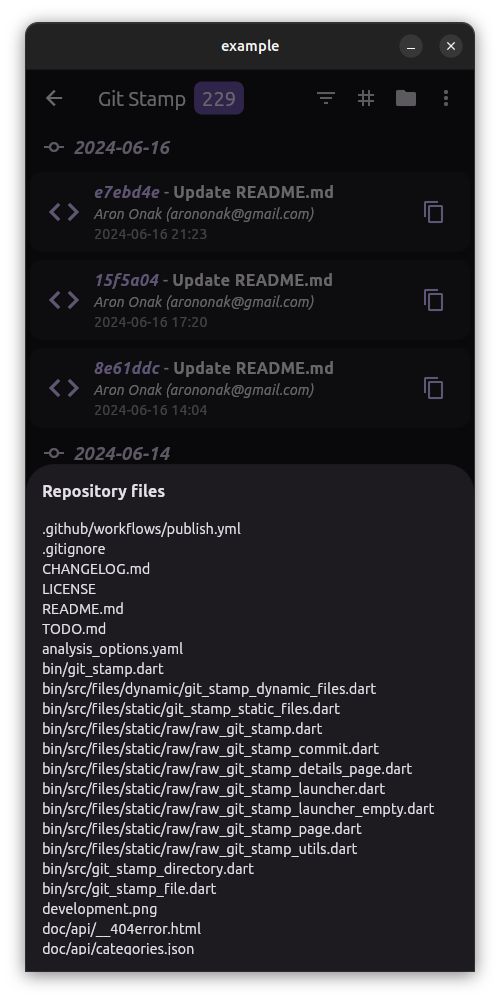
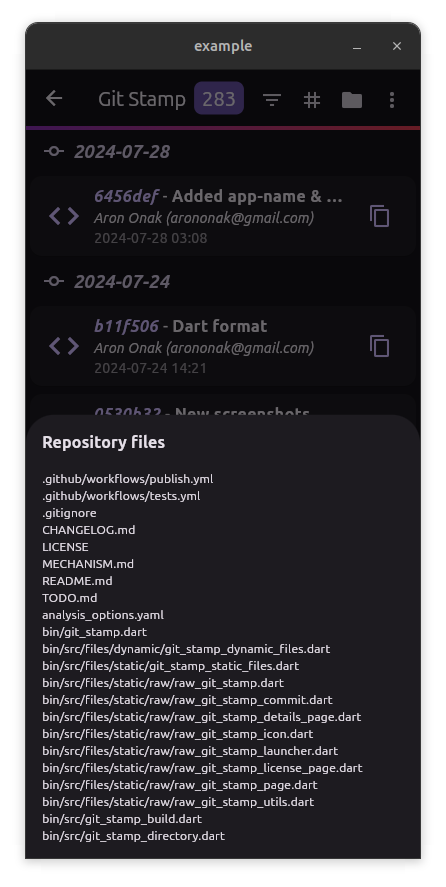
README.md Update

diff --git a/example/lib/main.dart b/example/lib/main.dart
@@ -17,7 +17,7 @@ class ExampleApp extends StatelessWidget {
       home: MainPage(),
       theme: ThemeData(useMaterial3: true),
       darkTheme: ThemeData.dark(useMaterial3: true),
-      themeMode: ThemeMode.system,
+      themeMode: ThemeMode.dark,
     );
   }
 }

diff --git a/README.md b/README.md
@@ -20,6 +20,7 @@ Advanced await-less information provider. From simple information such as `build
   - [🏞 Preview](#-preview)
       - [1. LITE \& FULL](#1-lite--full)
       - [2. ICON](#2-icon)
+      - [3. LicensePage](#3-licensepage)
   - [📑 About](#-about)
       - [Goal](#goal)
       - [Motivation](#motivation)
@@ -49,10 +50,15 @@ Advanced await-less information provider. From simple information such as `build
 | :-----------------------------------------------------------------------------: | :----------------------------------------------------------------------------: |
 | ![](https://github.com/arononak/git_stamp/blob/main/preview_light.png?raw=true) | ![](https://github.com/arononak/git_stamp/blob/main/preview_dark.png?raw=true) |
 
-
 #### 2. ICON
 
-![](https://github.com/arononak/git_stamp/blob/main/changelog/4.0.0.png?raw=true)
+![](https://github.com/arononak/git_stamp/blob/main/preview_icon.png?raw=true)
+
+#### 3. LicensePage
+
+|                                      showLicensePage                                |                                      showGitStampLicensePage                                  |
+| :---------------------------------------------------------------------------------: | :-------------------------------------------------------------------------------------------: |
+| ![](https://github.com/arononak/git_stamp/blob/main/show_license_page.png?raw=true) | ![](https://github.com/arononak/git_stamp/blob/main/show_git_stamp_license_page.png?raw=true) |
 
 ## 📑 About
 
